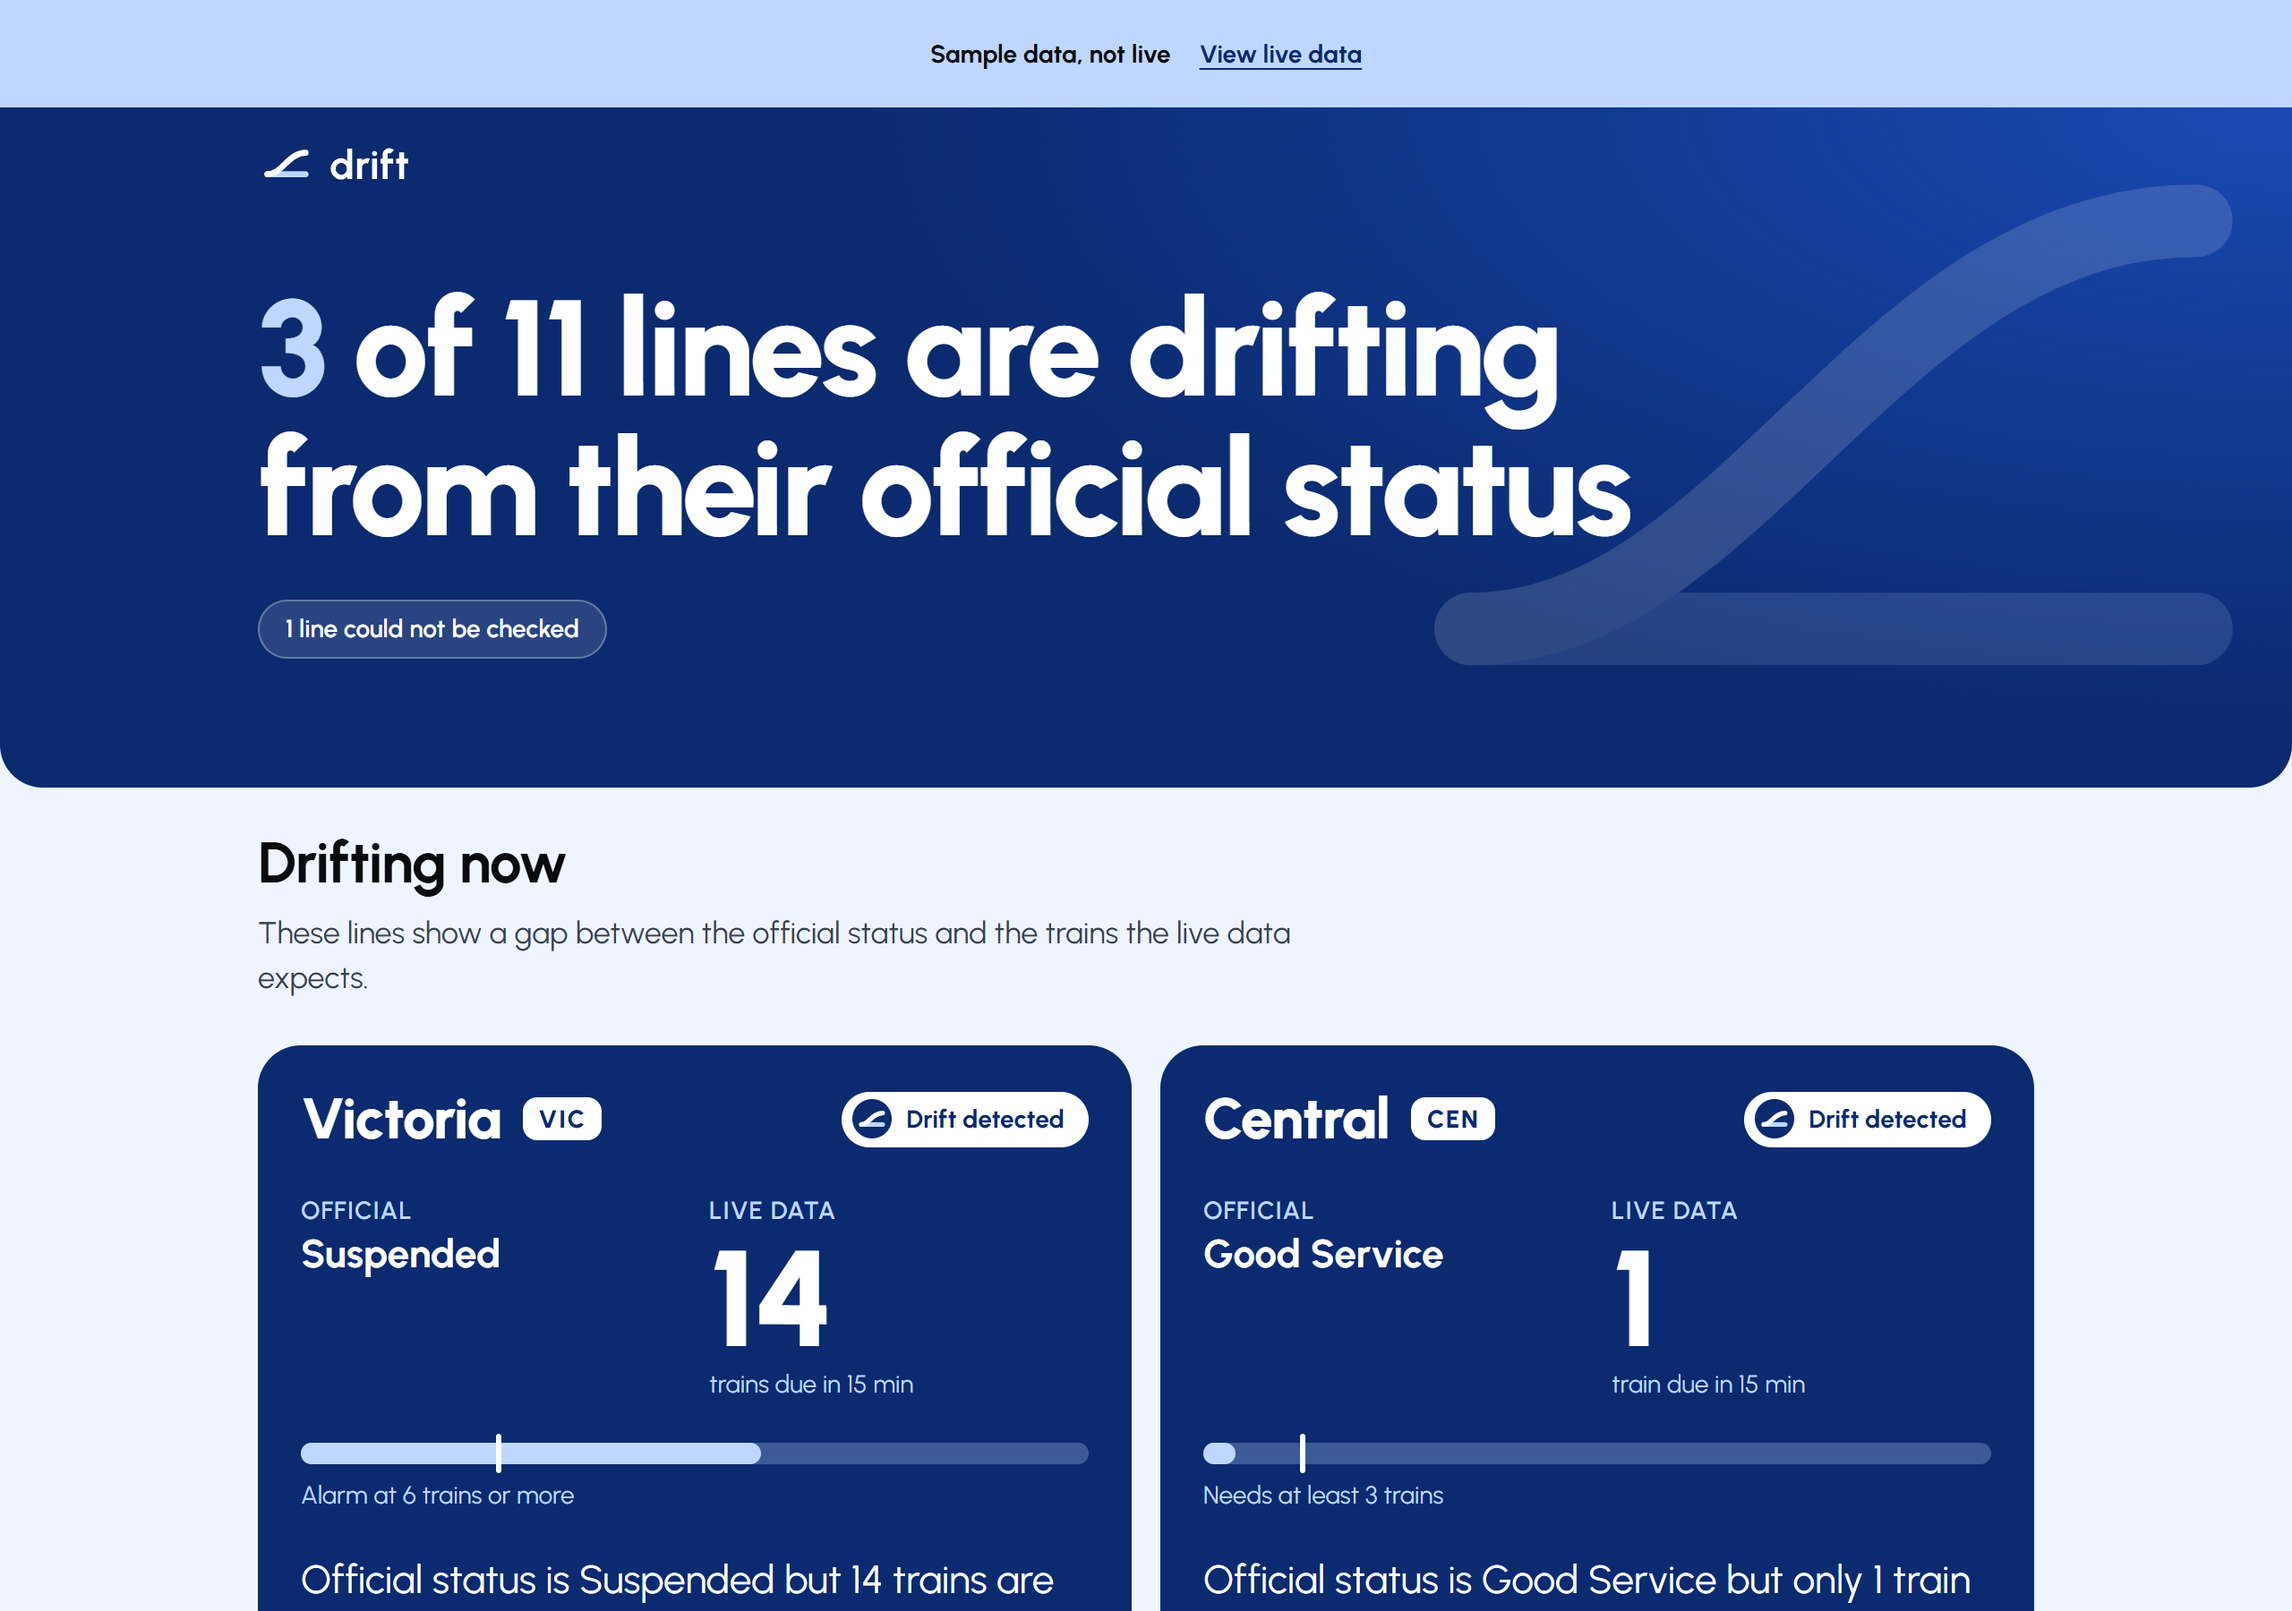
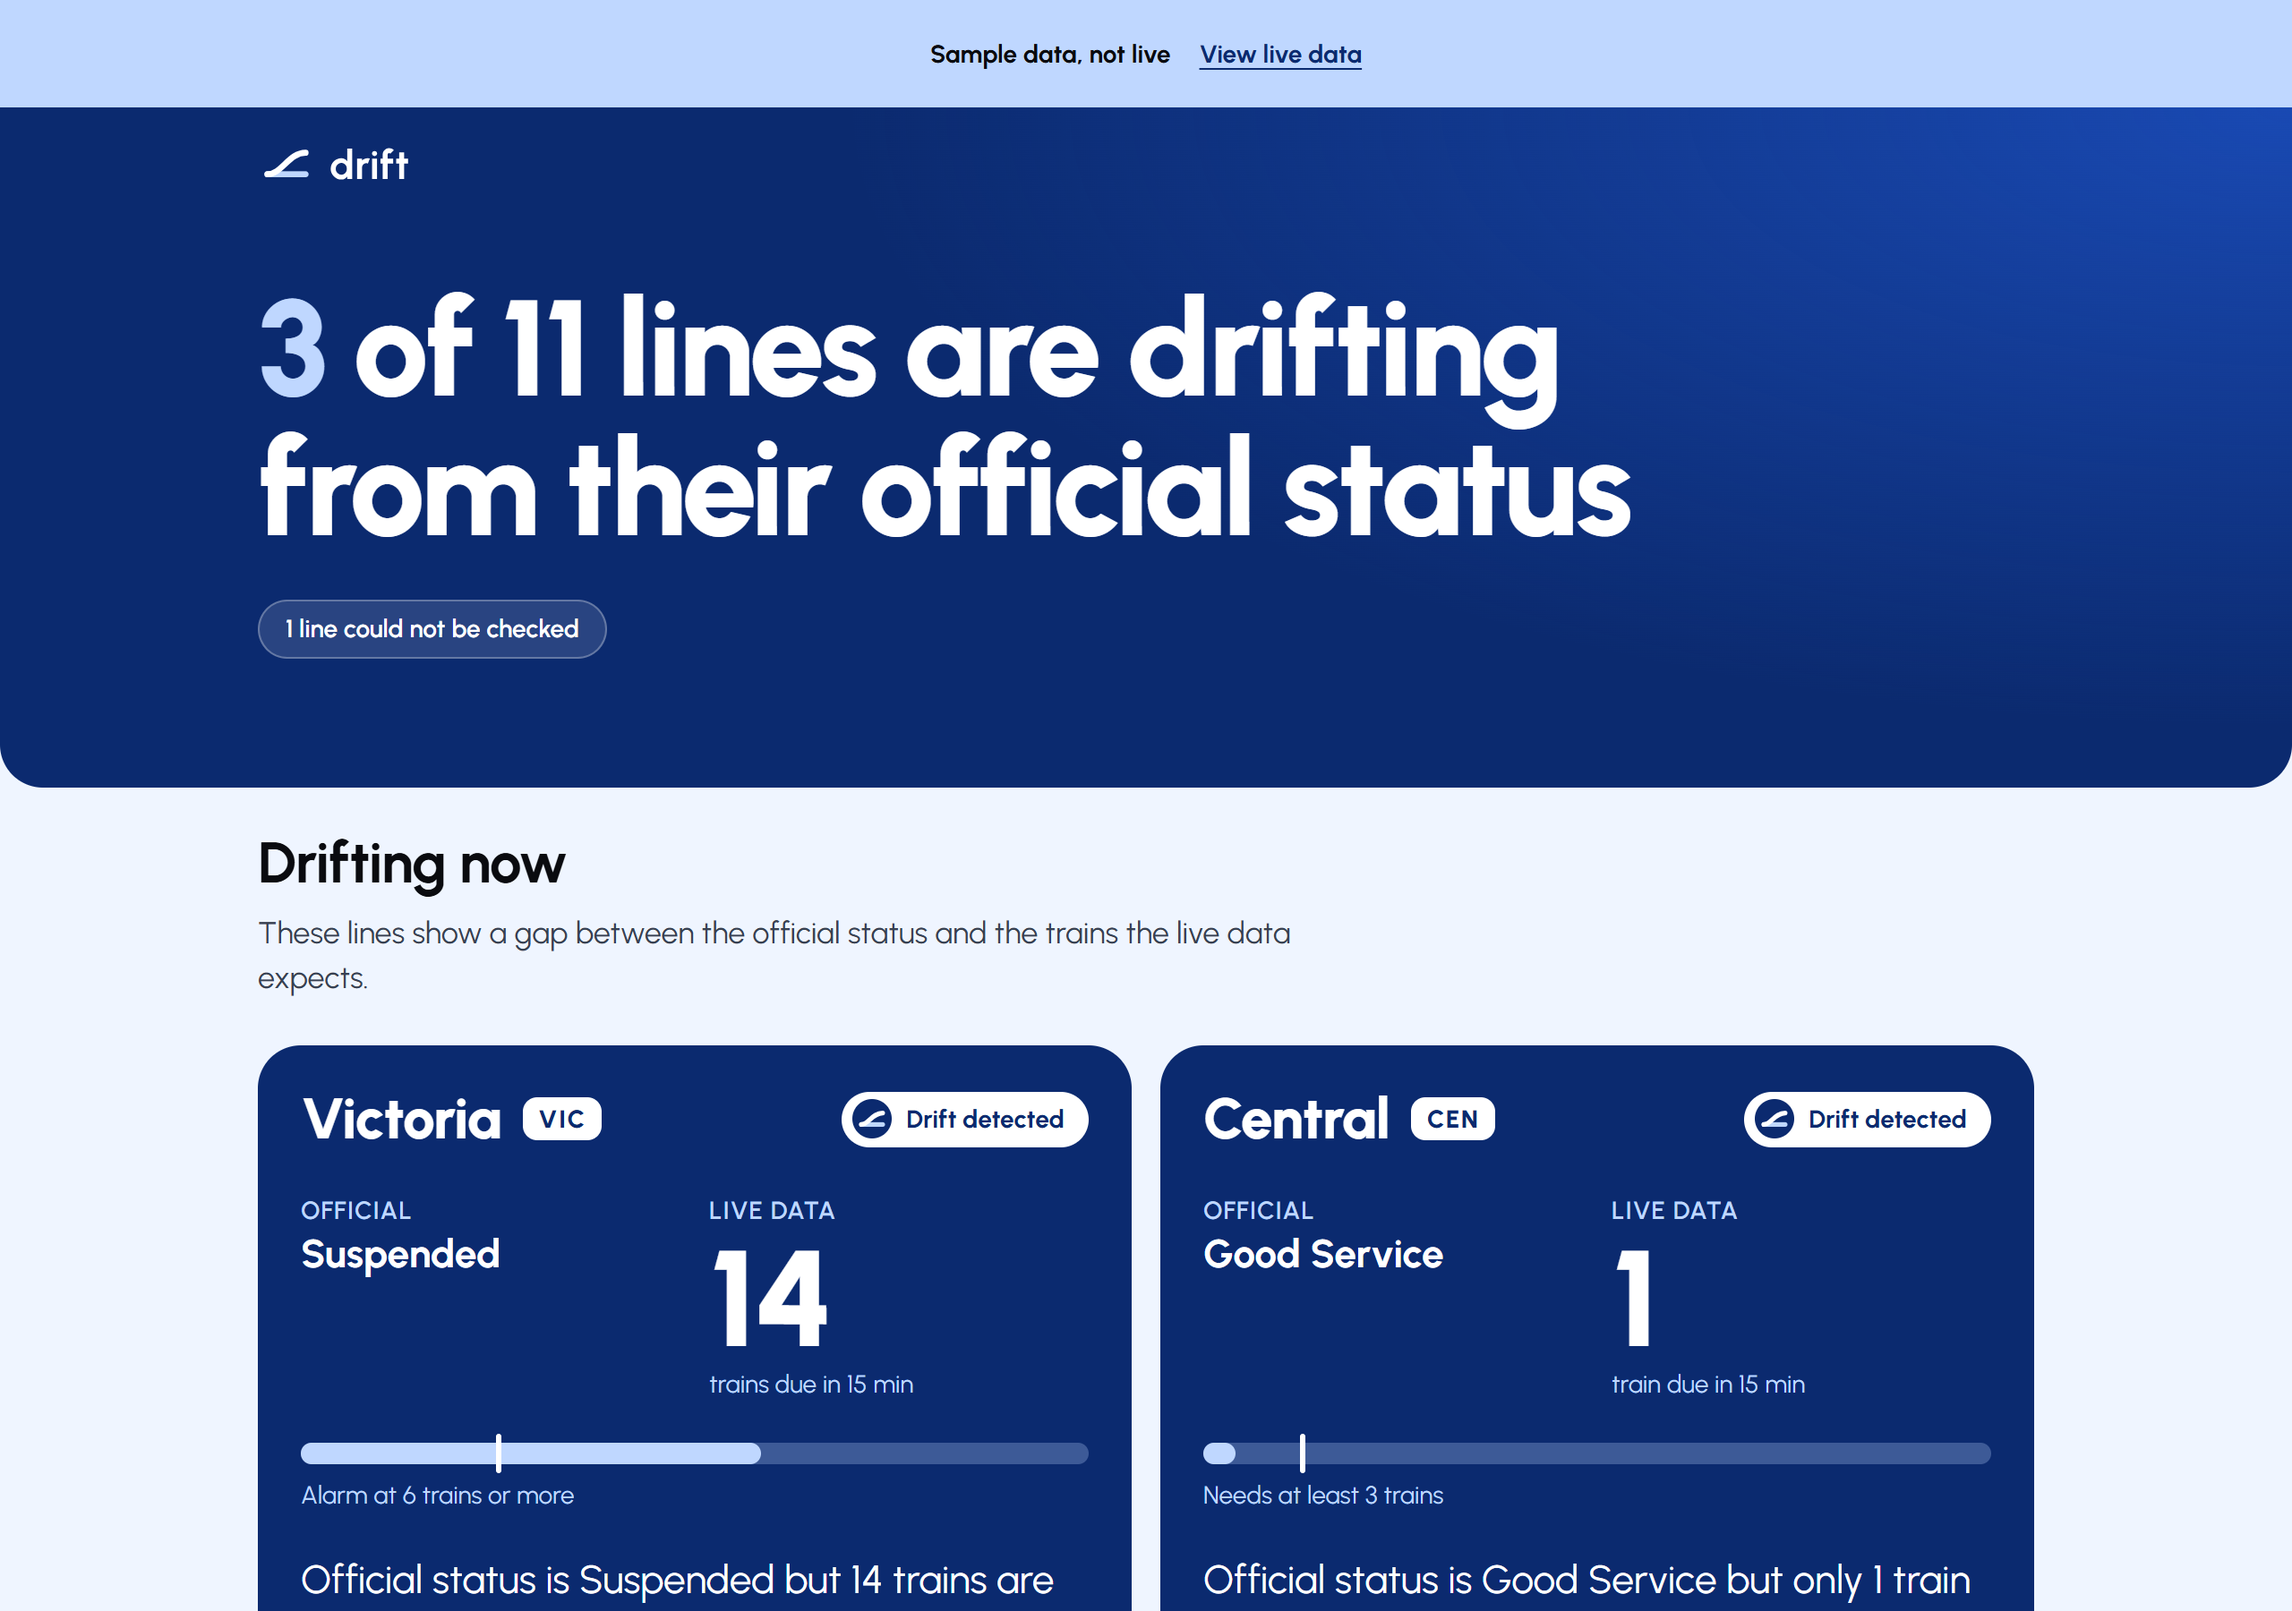
docs: add time spent and the phone check, record the cold start fix and retake the screenshots from the live site

Changed region(s): [[0.625, 0.0933, 1.0, 0.4356]]

diff --git a/CHANGELOG.md b/CHANGELOG.md
@@ -6,20 +6,6 @@ All notable changes to this project are documented here. The format follows
 
 ## [Unreleased]
 
-### Changed
-
-- Interface redesign: a full-bleed deep blue masthead with a faint diverging-lines
-  mark, a light blue page wash, filled line chips and verdict pills, large train
-  counts, deep blue mismatch cards and a deep blue footer.
-- The drift track now draws one measured value against the engine's own threshold from
-  `config.ts`, with the threshold marked, and is omitted where no honest comparison
-  exists.
-- Footer links open in a new tab, carry icons, and a developer credit links to oyedokun.dev.
-
-### Added
-
-- Sample mode at `?sample=1`, with a persistent "Sample data, not live" banner.
-
 ## [0.1.0] - 2026-11-08
 
 First release.
@@ -47,6 +33,29 @@ First release.
   build and a gitleaks secret scan.
 - Documentation: architecture, mismatch rules, API notes, verification record,
   prompt log, security policy and contributing guide.
+
+### Changed
+
+- Interface redesign: a full-bleed deep blue masthead, a light blue page wash, filled
+  line chips and verdict pills, large train counts, deep blue mismatch cards and a deep
+  blue footer.
+- The drift track draws one measured value against the engine's own threshold from
+  `config.ts`, with the threshold marked, and is omitted where no honest comparison
+  exists.
+
+### Fixed
+
+- Cold start: when the store holds no line summaries, the first request runs one
+  refresh, shared between concurrent requests and capped at 7 seconds, instead of
+  showing every line as "no live data" until the next cron tick. A live outage seen
+  shortly after a deploy was not diagnosed to a proven cause, and this is the likeliest
+  explanation, not a confirmed one.
+- Footer links open in a new tab with `noopener`.
+
+### Added (since the first draft)
+
+- Sample mode at `?sample=1`, with a persistent "Sample data, not live" banner.
+- Footer icons and a developer credit linking to oyedokun.dev.
 
 ### Known limits
 

diff --git a/README.md b/README.md
@@ -59,6 +59,18 @@ short cache keeps TfL traffic independent of visitor count, and if TfL is down t
 Worker serves the last good snapshot marked stale, or a typed 503 if there is none.
 It never returns a bare 500.
 
+Cold start: if the store holds no line summaries, as on empty storage, the first
+request runs one refresh itself instead of waiting for the next cron tick. Concurrent
+requests share that refresh, it is capped at 7 seconds, and if it fails the page still
+gets a valid snapshot with those lines marked "not enough data". If TfL's status feed is
+down and nothing has ever been stored, the Worker still answers with the typed 503.
+
+One live incident is not explained. Shortly after a deploy, the site showed "Live data is
+unavailable" with no earlier snapshot. By the time it was investigated, the API was
+healthy and the logs showed no errors, so the cause was **not proven**. The cold start
+gap above is the likeliest explanation and is now closed, but that is an inference, not a
+finding.
+
 ## The rules
 
 All thresholds are named constants in `packages/engine/src/config.ts`, each with its
@@ -203,7 +215,17 @@ Said plainly, so nothing here is a surprise.
 - **An uncached `/api/snapshot` costs 8 to 19 ms of CPU**, above the documented 10 ms
   free tier figure, which Cloudflare did not enforce. The 45 second cache means most
   requests cost 1 to 2 ms.
-- **Not yet checked on a physical phone** by the owner.
+
+## Time spent
+
+About 2 hours in total. The split between planning, building and reviewing, and
+verifying was not recorded.
+
+## Phone check
+
+Checked on a Samsung S23 5G in Chrome, on MTN mobile data. Sample mode at `/?sample=1`
+showed 3 of 11 lines drifting with all three mismatch cards, the full line list and the
+three footer links.
 
 ## Licence and attribution
 

diff --git a/docs/VERIFICATION.md b/docs/VERIFICATION.md
@@ -82,6 +82,6 @@ Run on a local Worker against the real TfL API with real persisted storage:
   meant overwriting the production secret with an invalid one, and the owner chose not
   to do that. The same behaviour was exercised locally as above.
 - **A forced upstream timeout** was only covered by unit tests.
-- **A physical phone** has not been used to check the live site by the owner. Layout
-  was checked in a mobile emulation at 320, 375, 768 and 1280 pixels, with no
-  horizontal scrolling at any of them.
+- **A physical phone** check was done by the owner on a Samsung S23 5G in Chrome over
+  MTN mobile data, using sample mode. Layout was also checked in a mobile emulation at
+  320, 375, 768 and 1280 pixels, with no horizontal scrolling at any of them.
